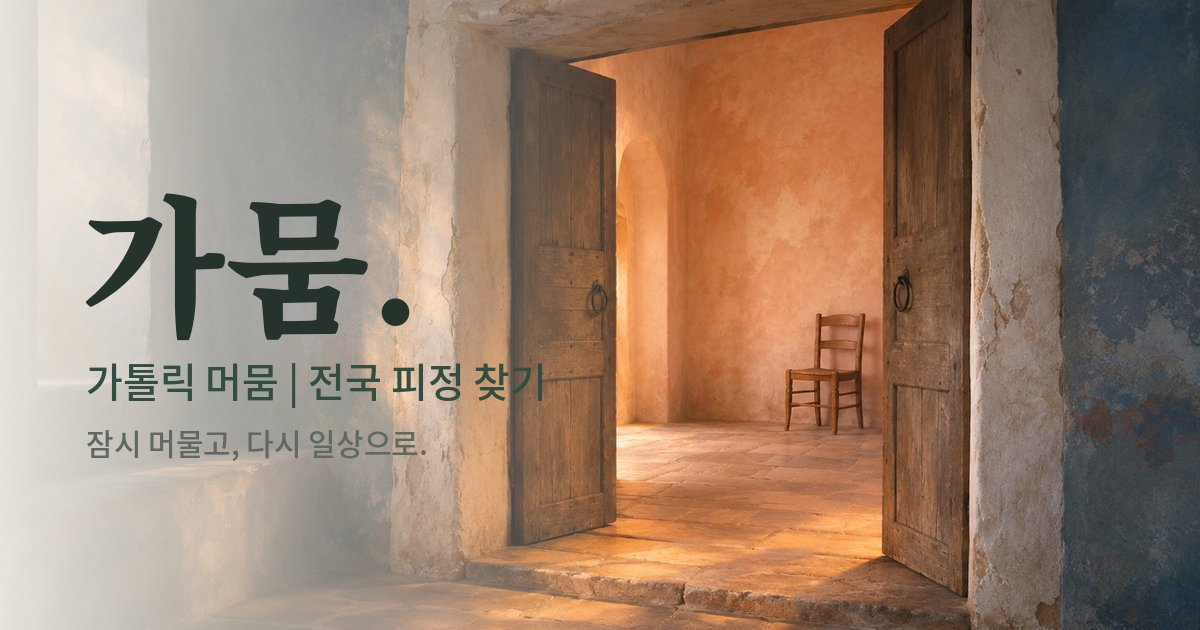
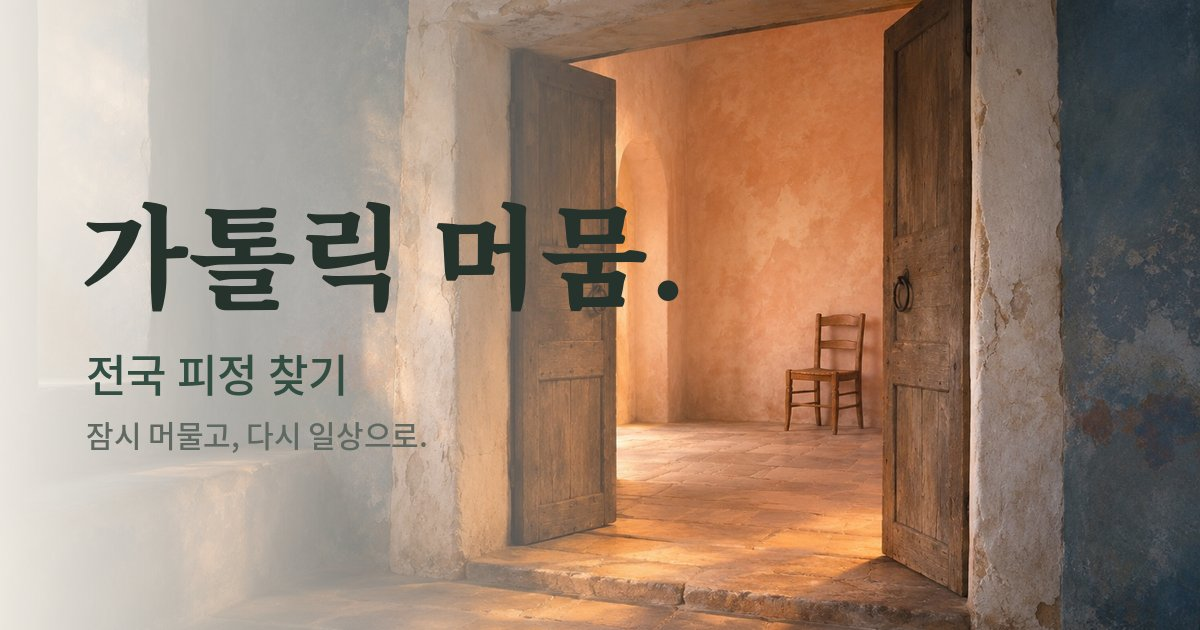
공식 이름을 '가톨릭 머뭄'으로: 머리글·바닥글 로고, 화면 제목, 공유 미리보기, 소개·약관·안내 문구
Claude-Session: https://claude.ai/code/session_0163mdS4Qys99wEqv5RpC54a

Changed region(s): [[0.0617, 0.3016, 0.4625, 0.6333], [0.37, 0.3016, 0.5858, 0.5127], [0.0617, 0.6635, 0.37, 0.7238]]

diff --git a/home/app.js b/home/app.js
@@ -1,14 +1,14 @@
-import {topicGroups,matchesTopics,koreaDay,onDate,inMonth,monthDays,shiftMonth,areaOf,matchesArea,actualRows,searchItems,newSearch,newQuiz,catalogMode,topicDiagnosis} from './discovery.js?v=202611161341';
-import {selectSpace,readProgress,saveProgress,readSaved,saveShelf} from './visit.js?v=202611161341';
-import {safe,normalizeCatalog,catalogFromRows,regions,requirementsHTML,https,visibleStatus} from './domain.js?v=202611161341';
-import {profiles,spiritualGuides,saintSources} from './guides.js?v=202611161341';
+import {topicGroups,matchesTopics,koreaDay,onDate,inMonth,monthDays,shiftMonth,areaOf,matchesArea,actualRows,searchItems,newSearch,newQuiz,catalogMode,topicDiagnosis} from './discovery.js?v=202611161344';
+import {selectSpace,readProgress,saveProgress,readSaved,saveShelf} from './visit.js?v=202611161344';
+import {safe,normalizeCatalog,catalogFromRows,regions,requirementsHTML,https,visibleStatus} from './domain.js?v=202611161344';
+import {profiles,spiritualGuides,saintSources} from './guides.js?v=202611161344';
 const main=document.querySelector('#main'),status=document.querySelector('#status'),engine=window.GAMUM_RECOMMEND,questions=window.GAMUM_QUIZ;
 const memory=()=>({getItem:()=>null,setItem:()=>{}});let local,session;try{local=localStorage;}catch{local=memory();}try{session=sessionStorage;}catch{session=memory();}
-const themes=await fetch('themes.json?v=202611161341').then(r=>{if(!r.ok)throw Error('테마 자료를 읽지 못했습니다.');return r.json();});
-const artwork=await fetch('art-v2/manifest.json?v=202611161341').then(r=>r.json());
-const editorial=await fetch('editorial.json?v=202611161341').then(r=>r.json());
-const geo=await fetch('regions.json?v=202611161341').then(r=>r.json());const areas=geo.regions;
-const compositions=await fetch('compositions.json?v=202611161341').then(r=>r.json());
+const themes=await fetch('themes.json?v=202611161344').then(r=>{if(!r.ok)throw Error('테마 자료를 읽지 못했습니다.');return r.json();});
+const artwork=await fetch('art-v2/manifest.json?v=202611161344').then(r=>r.json());
+const editorial=await fetch('editorial.json?v=202611161344').then(r=>r.json());
+const geo=await fetch('regions.json?v=202611161344').then(r=>r.json());const areas=geo.regions;
+const compositions=await fetch('compositions.json?v=202611161344').then(r=>r.json());
 const art=t=>artwork.find(a=>a.id===t.id);
 const chosenSpace=selectSpace(local,session,new URLSearchParams(location.search).get('space'));
 const theme=themes.find(t=>t.id===chosenSpace)||themes[0];
@@ -35,7 +35,7 @@ if('scrollRestoration'in history)history.scrollRestoration='manual';
 function notify(text){status.textContent=text;clearTimeout(notify.timer);notify.timer=setTimeout(()=>status.textContent='',4500);}
 function photo(t,priority=false,companion=false){const a=art(companion?{id:composition.minuteImage}:t);return `<picture><source media="(max-width:700px)" srcset="${a.mobile}"><img src="${a.desktop}" alt="${safe(a.alt)}" width="1440" height="960" ${priority?'fetchpriority="high"':'loading="lazy"'} decoding="async"></picture>`;}
 function thumbnail(t){const a=art(t);return `<img src="${a.thumbnail}" alt="${safe(a.alt)}" width="400" height="267" style="object-position:${a.desktopPosition}" loading="lazy" decoding="async">`;}
-function heading(title,desc,kicker='가톨릭 머뭄'){return `<a class="back-link" href="#home">← 가뭄으로 돌아가기</a><section class="page-heading"><span class="tiny">${kicker}</span><h1>${title}</h1><p>${desc}</p></section>`;}
+function heading(title,desc,kicker='가톨릭 머뭄'){return `<a class="back-link" href="#home">← 처음으로 돌아가기</a><section class="page-heading"><span class="tiny">${kicker}</span><h1>${title}</h1><p>${desc}</p></section>`;}
 function dataNotice(){return mode==='demo'?'<p class="demo-notice">현재는 예시 피정으로 탐색 기능을 체험할 수 있습니다. 실제 신청은 불가능합니다.</p>':'';}
 function noRows(filtered=false){return `<div class="empty"><h3>${catalogState==='error'?'공식 자료를 확인하지 못했습니다.':catalogState==='loading'?'피정 자료를 확인하고 있습니다.':mode==='demo'?'선택한 조건에 맞는 예시 피정이 없습니다.':filtered&&rows.length?'선택한 조건에 맞는 실제 피정이 없습니다.':'현재 신청할 수 있는 실제 피정이 없습니다.'}</h3><p>${catalogState==='error'?'확인되지 않은 자료를 대신 표시하지 않습니다. 다시 연결해 주세요.':'선택한 태그나 상세 조건을 줄여 보세요. 필수 참가 자격은 자동으로 완화하지 않습니다.'}</p>${catalogState==='error'?'<button class="text-button" data-reload>연결 다시 확인</button>':''}</div>`;}
 function card({p,s}){return `<article class="retreat-summary"><a class="retreat-summary-link" href="#retreat/${s.demo?'demo':'approved'}/${encodeURIComponent(s.id)}"><h3>${safe(p.title)}</h3><p>${safe(s.place||p.organization||'장소 확인 필요')}<span> · ${safe(s.region||'지역 확인 필요')}</span></p>${s.demo?'<span class="demo-badge">시연 · 신청 불가</span>':`<span class="summary-date">${date(s.start)} · ${safe(visibleStatus(s))}</span>`}<span class="summary-arrow" aria-hidden="true">→</span></a></article>`;}
@@ -53,12 +53,12 @@ function search(page){activeSearch=page;const f=searchStates[page];f.monthOnly=p
 function searchResults(){const f=searchStates[activeSearch];const items=searchItems(allItems(),f,areas,engine);return `<p class="result-count" role="status">${f.day?safe(f.day)+' · ':''}${items.length}개의 ${mode==='demo'?'가상 시연':'실제'} 회차${activeSearch==='places'?' · '+new Set(items.map(x=>x.s.place)).size+'개 장소':''}</p>${items.length?`<div class="retreat-grid">${items.map(card).join('')}</div>`:noRows(true)}${!items.length?`<p class="topic-diagnosis">${safe(topicDiagnosis(allItems(),f,areas,engine))}</p>`:''}${!items.length&&(f.tags.length||f.regionId||f.day||Object.values(f.conditions).some(Boolean))?'<p class="condition-help">위의 선택 표시에서 ×를 누르거나 전체 초기화로 조건을 줄일 수 있습니다. 필수 참가 자격은 자동으로 완화하지 않습니다.</p>':''}`;}
 function quiz(){if(step>=10)return result();const q=questions[step];return `<section class="quiz-shell"><a class="back-link" href="#home">← 네 가지 길로</a><div class="quiz-top"><span>나를 찾아가는 길</span><span>${num(step+1)} / 10</span></div><div class="quiz-progress" role="progressbar" aria-label="질문 진행" aria-valuenow="${step+1}" aria-valuemin="0" aria-valuemax="10"><span style="width:${(step+1)*10}%"></span></div><h1 id="question-title" tabindex="-1">${safe(q.q)}</h1><div class="quiz-options">${q.opts.map((o,i)=>`<button class="quiz-option" data-answer="${i}" aria-pressed="${answers[step]===i}"><span aria-hidden="true">${num(i+1)}</span>${safe(o.text)}</button>`).join('')}</div><div class="quiz-bottom"><button class="text-button" data-back ${step===0?'disabled':''}>← 이전</button><button class="text-button" data-skip>건너뛰기 →</button></div><p class="quiz-note">정답도, 판정도 없습니다. 답변은 저장하지 않습니다.</p></section>`;}
 function conditionsForm(){const c=conditions;return `<details class="conditions"><summary>참가 조건 조정</summary><p class="muted">선호와 참가 자격은 다릅니다. 확인된 조건에 맞는 피정만 추천합니다.</p><form id="conditions-form"><div class="condition-grid">${select('region','지역',regions,c.region)}${field('dateFrom','시작일','date',c.dateFrom)}${field('dateTo','종료일','date',c.dateTo)}${field('budget','1인 전체 예산','number',c.budget,'min="0"')}${field('age','내 나이','number',c.age,'min="0" max="120"')}${select('company','동행',Object.entries(engine.companyLabels),c.company)}${select('duration','기간',Object.entries(engine.durationLabels),c.duration)}${select('mode','진행 방식',[['daytime','당일'],['residential','숙박'],['commuter','통원'],['online','온라인'],['no-night','숙박 불가']],c.mode)}${select('experience','피정 경험',[['first','처음'],['experienced','경험 있음']],c.experience)}${select('gender','참가 성별',[['female','여성'],['male','남성']],c.gender)}${select('role','대상 자격',[['lay','평신도'],['religious','수도자'],['clergy','성직자'],['any','별도 자격 없음']],c.role)}${select('faith','신앙 단계',[['catholic','가톨릭 신자'],['catechumen','예비신자'],['other','그 외']],c.faith)}${field('partySize','동행 인원','number',c.partySize,'min="1"')}${field('youngestAge','동행 최저 나이','number',c.youngestAge,'min="0"')}${field('oldestAge','동행 최고 나이','number',c.oldestAge,'min="0" max="120"')}${field('childAge','미성년 자녀 나이','number',c.childAge,'min="0" max="17"')}${select('married','혼인 여부',[['yes','혼인함'],['no','해당 없음']],c.married)}${select('vocation','성소 관심',[['yes','해당'],['no','해당 없음']],c.vocation)}${field('courses','이수한 과정 (쉼표 구분)','text',c.courses?.join(', '))}</div><div class="checks">${[['durationRequired','기간 필수'],['companyRequired','동행 필수'],['minors','미성년 자녀 동행']].map(([k,t])=>`<label><input type="checkbox" name="${k}" ${c[k]?'checked':''}>${t}</label>`).join('')}</div><button class="primary">추천 다시 확인 ${arrow}</button></form></details>`;}
-function result(){const d=engine.recommend({questions,answers,conditions,...dataset()}),p=profiles[d.top]||profiles['쉼'],g=spiritualGuides[d.top]||spiritualGuides['쉼'];for(const item of d.items)recommendationReasons.set(item.s.id,item.reason);return `<a class="back-link" href="#home">← 가뭄으로</a><section class="result-intro"><span class="tiny">YOUR MOMENT OF STILLNESS</span><h1>${safe(p[0])}</h1><p>${safe(p[1])}</p><p class="recommendation-direction">답변에서 만난 방향 · ${safe(d.likes.join(' · ')||'열린 마음으로 머물기')}</p><button class="text-button" data-restart>처음부터 다시 시작하기</button></section><section><div class="section-heading"><h2>지금 나에게 맞는 머뭄 ${d.items.length}개</h2></div>${dataNotice()}${d.items.length?`<div class="retreat-grid">${d.items.map(card).join('')}</div>`:noRows(true)}${!d.items.length&&rows.length?`<p class="notice">${safe([...new Set([...d.unconfirmed,...d.excluded].flatMap(x=>x.fit.reasons))].join(' · '))}</p>`:''}<p class="result-count">참가 조건 확인 필요 ${d.unconfirmed.length}개 · 조건 불일치 또는 모집 종료 ${d.excluded.length}개</p></section>${conditionsForm()}<section class="spiritual"><span class="tiny">A LITTLE RETREAT FOR YOU</span><h2>${safe(g.opening)}</h2><p>${safe(g.comfort)}</p><h2>함께 읽을 말씀</h2><blockquote>${safe(g.verse)}</blockquote><a href="${g.url}" target="_blank" rel="noopener noreferrer">(${safe(g.reference)})</a><h2>영적 길동무 · ${safe(g.saint)}</h2><p>${safe(g.saintStory)}</p><a href="${saintSources[d.top]||saintSources['쉼']}" target="_blank" rel="noopener noreferrer">성인 이야기 출처 ${arrow}</a><h2>내 삶에 건네는 질문</h2><p>${safe(g.question)}</p><h2>짧은 기도</h2><p>${safe(g.prayer)}</p><p class="notice">이 결과는 지금의 선호를 돌아보는 안내이며 성격이나 신앙을 판정하지 않습니다.</p><button class="text-button" data-restart>10문항 다시 시작하기 ${arrow}</button></section>`;}
-function detail(id,kind){const data=kind==='demo'?demo:kind==='approved'?catalogFromRows(rows):dataset();const x=data.sessions.map(s=>({s,p:data.programs.find(p=>p.id===s.programId)})).find(x=>x.p&&x.s.id===id);if(!x)return heading('지금은 공개되지 않은 머뭄입니다.','모집 상태가 바뀌었거나 자료가 공개 중지되었을 수 있습니다.');const {p,s}=x;return `<a class="back-link" href="${safe(detailReturn)}" data-return-list>← 목록으로 돌아가기</a>${heading(safe(p.title),safe(p.organization||s.organization))}${s.demo?'<p class="notice">가상 시연 데이터입니다. 기관·일정·참가 조건은 모두 예시이며 실제 신청할 수 없습니다.</p>':''}<div class="detail"><div><section><h2>이 머뭄에 대하여</h2><p>${safe(p.description||p.legacy?.description||s.description)}</p><p>${safe(p.legacy?.recommendation?.demoPlan||'프로그램의 자세한 일정과 준비물은 주최 기관의 공식 공고를 확인해 주세요.')}</p></section><section><h2>참가 조건</h2><p>${safe(p.audience)}</p>${requirementsHTML(p.requirements)}</section><section><h2>후기와 현장 안내</h2><p>실제 참가자의 확인된 후기만 공개합니다. 가상 후기는 만들지 않습니다.</p>${s.demo?`<a class="section-link" href="../legacy.html#qr/${safe(p.id)}">기존 QR·후기 시연 확인 ${arrow}</a>`:''}</section></div><aside>${detailFacts({...x,reason:recommendationReasons.get(s.id)||''})}${!s.demo&&https(s.applicationUrl)?`<a class="button" href="${safe(https(s.applicationUrl))}" target="_blank" rel="noopener noreferrer">공식 신청처로 ${arrow}</a>`:s.demo?'<p>가상 회차 · 실제 신청 불가</p>':`<p>연락처: ${safe(s.phone||'공식 안내 확인 필요')}</p>`}<p class="muted">신청·입금·환불은 주최 기관에서 진행합니다. 가뭄에서 예약이 확정되지 않습니다.</p></aside></div>`;}
+function result(){const d=engine.recommend({questions,answers,conditions,...dataset()}),p=profiles[d.top]||profiles['쉼'],g=spiritualGuides[d.top]||spiritualGuides['쉼'];for(const item of d.items)recommendationReasons.set(item.s.id,item.reason);return `<a class="back-link" href="#home">← 처음으로</a><section class="result-intro"><span class="tiny">YOUR MOMENT OF STILLNESS</span><h1>${safe(p[0])}</h1><p>${safe(p[1])}</p><p class="recommendation-direction">답변에서 만난 방향 · ${safe(d.likes.join(' · ')||'열린 마음으로 머물기')}</p><button class="text-button" data-restart>처음부터 다시 시작하기</button></section><section><div class="section-heading"><h2>지금 나에게 맞는 머뭄 ${d.items.length}개</h2></div>${dataNotice()}${d.items.length?`<div class="retreat-grid">${d.items.map(card).join('')}</div>`:noRows(true)}${!d.items.length&&rows.length?`<p class="notice">${safe([...new Set([...d.unconfirmed,...d.excluded].flatMap(x=>x.fit.reasons))].join(' · '))}</p>`:''}<p class="result-count">참가 조건 확인 필요 ${d.unconfirmed.length}개 · 조건 불일치 또는 모집 종료 ${d.excluded.length}개</p></section>${conditionsForm()}<section class="spiritual"><span class="tiny">A LITTLE RETREAT FOR YOU</span><h2>${safe(g.opening)}</h2><p>${safe(g.comfort)}</p><h2>함께 읽을 말씀</h2><blockquote>${safe(g.verse)}</blockquote><a href="${g.url}" target="_blank" rel="noopener noreferrer">(${safe(g.reference)})</a><h2>영적 길동무 · ${safe(g.saint)}</h2><p>${safe(g.saintStory)}</p><a href="${saintSources[d.top]||saintSources['쉼']}" target="_blank" rel="noopener noreferrer">성인 이야기 출처 ${arrow}</a><h2>내 삶에 건네는 질문</h2><p>${safe(g.question)}</p><h2>짧은 기도</h2><p>${safe(g.prayer)}</p><p class="notice">이 결과는 지금의 선호를 돌아보는 안내이며 성격이나 신앙을 판정하지 않습니다.</p><button class="text-button" data-restart>10문항 다시 시작하기 ${arrow}</button></section>`;}
+function detail(id,kind){const data=kind==='demo'?demo:kind==='approved'?catalogFromRows(rows):dataset();const x=data.sessions.map(s=>({s,p:data.programs.find(p=>p.id===s.programId)})).find(x=>x.p&&x.s.id===id);if(!x)return heading('지금은 공개되지 않은 머뭄입니다.','모집 상태가 바뀌었거나 자료가 공개 중지되었을 수 있습니다.');const {p,s}=x;return `<a class="back-link" href="${safe(detailReturn)}" data-return-list>← 목록으로 돌아가기</a>${heading(safe(p.title),safe(p.organization||s.organization))}${s.demo?'<p class="notice">가상 시연 데이터입니다. 기관·일정·참가 조건은 모두 예시이며 실제 신청할 수 없습니다.</p>':''}<div class="detail"><div><section><h2>이 머뭄에 대하여</h2><p>${safe(p.description||p.legacy?.description||s.description)}</p><p>${safe(p.legacy?.recommendation?.demoPlan||'프로그램의 자세한 일정과 준비물은 주최 기관의 공식 공고를 확인해 주세요.')}</p></section><section><h2>참가 조건</h2><p>${safe(p.audience)}</p>${requirementsHTML(p.requirements)}</section><section><h2>후기와 현장 안내</h2><p>실제 참가자의 확인된 후기만 공개합니다. 가상 후기는 만들지 않습니다.</p>${s.demo?`<a class="section-link" href="../legacy.html#qr/${safe(p.id)}">기존 QR·후기 시연 확인 ${arrow}</a>`:''}</section></div><aside>${detailFacts({...x,reason:recommendationReasons.get(s.id)||''})}${!s.demo&&https(s.applicationUrl)?`<a class="button" href="${safe(https(s.applicationUrl))}" target="_blank" rel="noopener noreferrer">공식 신청처로 ${arrow}</a>`:s.demo?'<p>가상 회차 · 실제 신청 불가</p>':`<p>연락처: ${safe(s.phone||'공식 안내 확인 필요')}</p>`}<p class="muted">신청·입금·환불은 주최 기관에서 진행합니다. 가톨릭 머뭄에서 예약이 확정되지 않습니다.</p></aside></div>`;}
 function shelf(){const actual=catalogFromRows(rows);const items=[...actual.sessions.map(s=>({s,p:actual.programs.find(p=>p.id===s.programId)})),...demo.sessions.map(s=>({s,p:demo.programs.find(p=>p.id===s.programId)}))].filter(({p,s})=>p&&saved.programs.includes(key(p.id,s.demo?'demo':'approved')));return `${heading('다시 꺼내 보는 마음.','이 브라우저에 담아 둔 머뭄과 공간입니다. 다른 기기로 자동 동기화되지 않습니다.','MY DRAWER')}<section><h2>내가 머문 공간</h2>${themes.filter(t=>saved.spaces.includes(t.id)).map(t=>`<article class="shelf-space"><a href="?space=${t.id}#minute">${thumbnail(t)}</a><div><span class="tiny">${t.number} · ${safe(t.name)}</span><h2><a href="?space=${t.id}#minute">${safe(t.title)}</a></h2></div><button class="text-button" data-remove-space="${t.id}">서랍에서 빼기</button></article>`).join('')||'<p class="notice">오늘의 1분 머뭄에서 마음에 닿은 공간을 담아 보세요.</p>'}</section><section class="retreat-section"><h2>저장한 피정</h2>${dataNotice()}${items.length?`<div class="retreat-grid">${items.map(card).join('')}</div>`:'<p class="notice">저장한 공개 피정이 없습니다. 공개 중지된 피정은 표시하지 않습니다.</p>'}</section><a class="section-link" href="../legacy.html#shelf">기존 v0.2의 말씀·결과 서랍 열기 ${arrow}</a>`;}
 function guide(){return `${heading('처음 머무는 당신께.','준비가 완벽하지 않아도 괜찮습니다. 궁금한 것부터 하나씩 살펴보세요.')}<div class="guide">${[['피정은 어떤 시간인가요?','일상에서 잠시 물러나 기도와 쉼, 성찰에 머무는 시간입니다. 침묵 중심, 말씀을 배우는 시간, 함께 나누는 시간 등 프로그램마다 다릅니다.'],['신자가 아니어도 참여할 수 있나요?','기관마다 참가 대상이 다릅니다. 신앙 단계·나이·동행·선행 과정 등 공식 참가 조건을 확인해 주세요. 확인되지 않은 자격을 추정해 추천하지 않습니다.'],['어디에서 신청하고 결제하나요?','승인된 피정 상세 화면의 공식 신청처로 이동합니다. 신청·입금·환불 규정은 주최 기관의 안내를 따릅니다. 가상 시연에는 실제 신청 기능이 없습니다.'],['20개의 공간은 어떻게 바뀌나요?','접속하거나 새로고침하면 새로운 공간을 만납니다. 20개 공간을 골고루 경험한 뒤 다시 섞습니다. 메뉴를 오갈 때는 같은 공간이 이어지며, 저장한 공간을 다시 열면 이 탭에서 읽던 묵상 단계가 이어집니다. 저장소 사용을 차단한 환경에서는 새로고침 후 상태 유지가 제한됩니다.'],['내 답변과 기록은 어디에 남나요?','10문항 답변은 서버나 브라우저 저장소에 저장하지 않습니다. 서랍은 이 기기의 브라우저에, 묵상 진행은 현재 탭에 저장됩니다. 브라우저 데이터를 지우면 기록이 사라집니다.'],['사진 속 장소에 갈 수 있나요?','20개 비주얼은 빛과 공간을 표현하기 위해 AI로 제작한 가상의 건축 이미지입니다. 실제 성당이나 피정 시설 사진이 아니며, 실제 장소로 안내하지 않습니다.']].map(([q,a])=>`<details><summary>${q}</summary><p>${a}</p></details>`).join('')}<p class="notice">현재 실제 신청과 수도회 운영 서비스는 준비 중입니다. 등록 시연은 서버에 전송되지 않습니다. 성경 말씀의 장절을 누르면 CBCK 원문을 읽을 수 있습니다.</p><div class="chips"><a class="button secondary" href="../legacy.html#convent-register">수도회 등록 시연</a><a class="button secondary" href="../legacy.html">기존 전체 기능</a></div></div>`;}
 function searchPage(q){const all=q.trim().toLowerCase().split(/\s+/).filter(Boolean),words=all.map(w=>w.replace(/(피정|머뭄)$/,'')).filter(w=>w&&!['가톨릭','천주교','찾기'].includes(w));const items=all.length?allItems().filter(({p,s})=>{const hay=[p.title,p.organization,s.organization,s.region,s.place,p.description,p.audience,(p.tags||[]).join(' ')].join(' ').toLowerCase();return words.every(w=>hay.includes(w));}):[];const anyQ=all.length;return heading('피정 검색','피정 이름, 수도회, 지역, 주제로 찾을 수 있습니다.')+`<form class="cm-search-page" data-cm-search role="search"><label for="cm-q-page">검색어</label><div class="cm-pill cm-pill-page"><svg viewBox="0 0 28 28" aria-hidden="true"><circle cx="12" cy="12" r="8"/><path d="m18 18 7 7"/></svg><input id="cm-q-page" type="search" name="q" value="${safe(q)}" placeholder="예: 침묵, 수원, 부부, 청년" autocomplete="off" enterkeyhint="search"><button type="submit">검색</button></div></form>`+dataNotice()+(anyQ?`<p class="result-count" role="status">‘${safe(q)}’ 검색 결과 ${items.length}개</p>${items.length?`<div class="retreat-grid">${items.map(card).join('')}</div>`:noRows(true)}`:`<p class="cm-search-hint">찾고 싶은 말을 넣고 검색을 눌러 주세요. 주제·날짜·지역으로 고르고 싶으시면 <a href="#paths">피정을 찾는 네 가지 길</a>을 이용하세요.</p>`);}
-function render({focus=false}={}){const [page='home',id,sessionId]=location.hash.slice(1).split('/');if(page==='quiz-result'&&!quizCompleted){history.replaceState(null,'','#discover');return render({focus});}document.body.classList.toggle('in-quiz',page==='discover'&&step<10);main.innerHTML=['home','paths',''].includes(page)?home():page==='minute'?heading('오늘, 1분 머뭄',theme.name+'의 공간에서, 당신의 속도로.')+minuteSection():['themes','calendar','places'].includes(page)?search(page):page==='discover'?quiz():page==='quiz-result'?result():page==='retreat'?detail(decodeURIComponent(sessionId||id||''),sessionId?id:undefined):page==='shelf'?shelf():page==='search'?searchPage(decodeURIComponent(id||'')):page==='guide'?guide():window.CM_PAGES&&window.CM_PAGES[page]?window.CM_PAGES[page]():heading('길을 다시 찾아볼까요?','위의 가뭄 로고를 누르면 첫 화면으로 돌아갑니다.');main.setAttribute('aria-busy','false');if(focus){main.focus({preventScroll:true});window.scrollTo(0,0);if(['paths','minute'].includes(page))document.getElementById(page)?.scrollIntoView();}}
+function render({focus=false}={}){const [page='home',id,sessionId]=location.hash.slice(1).split('/');if(page==='quiz-result'&&!quizCompleted){history.replaceState(null,'','#discover');return render({focus});}document.body.classList.toggle('in-quiz',page==='discover'&&step<10);main.innerHTML=['home','paths',''].includes(page)?home():page==='minute'?heading('오늘, 1분 머뭄',theme.name+'의 공간에서, 당신의 속도로.')+minuteSection():['themes','calendar','places'].includes(page)?search(page):page==='discover'?quiz():page==='quiz-result'?result():page==='retreat'?detail(decodeURIComponent(sessionId||id||''),sessionId?id:undefined):page==='shelf'?shelf():page==='search'?searchPage(decodeURIComponent(id||'')):page==='guide'?guide():window.CM_PAGES&&window.CM_PAGES[page]?window.CM_PAGES[page]():heading('길을 다시 찾아볼까요?','위의 가톨릭 머뭄 로고를 누르면 첫 화면으로 돌아갑니다.');main.setAttribute('aria-busy','false');if(focus){main.focus({preventScroll:true});window.scrollTo(0,0);if(['paths','minute'].includes(page))document.getElementById(page)?.scrollIntoView();}}
 // Restore explicit section links after the asynchronous theme files have rendered.
 if(['paths','minute'].includes(location.hash.slice(1)))requestAnimationFrame(()=>{const target=document.getElementById(location.hash.slice(1));if(target)window.scrollTo({top:target.offsetTop-24,behavior:'instant'});});
 main.addEventListener('click',e=>{const b=e.target.closest('button');if(!b)return;const d=b.dataset;
@@ -83,5 +83,5 @@ document.addEventListener('click',e=>{const a=e.target.closest('a');if(a?.getAtt
 document.querySelector('.skip').addEventListener('click',e=>{e.preventDefault();main.focus();});
 window.addEventListener('hashchange',e=>{const next=location.hash.slice(1).split('/')[0];if(next==='discover'&&step>=10)step=9;const mm=document.querySelector('.mobile-menu');if(mm)mm.open=false;const prevPage=new URL(e.oldURL).hash.slice(1).split('/')[0],segs=location.hash.slice(1).split('/');const keepScroll=prevPage===next&&['contents','dioceses','board'].includes(next)&&!(next==='contents'&&segs.length>=3);const position=new URL(e.oldURL).hash.startsWith('#retreat/')?viewPositions.get(location.hash):null;if(keepScroll){const y=window.scrollY;render();window.scrollTo(0,y);return;}render({focus:true});if(position)requestAnimationFrame(()=>{document.querySelector(`a[href="${position.href}"]`)?.focus({preventScroll:true});window.scrollTo({top:position.y,behavior:'instant'});});});
 // Public release: no development backend connection. Verified catalog is empty.
-async function loadCatalog(){try{const response=await fetch('catalog.json?v=202611161341');if(!response.ok)throw Error();const data=await response.json();rows=actualRows(data.rows||[]);catalogState='ready';}catch{rows=[];catalogState='error';}mode=catalogMode(rows,catalogState);const y=scrollY;render();window.scrollTo({top:y,behavior:'instant'});}
+async function loadCatalog(){try{const response=await fetch('catalog.json?v=202611161344');if(!response.ok)throw Error();const data=await response.json();rows=actualRows(data.rows||[]);catalogState='ready';}catch{rows=[];catalogState='error';}mode=catalogMode(rows,catalogState);const y=scrollY;render();window.scrollTo({top:y,behavior:'instant'});}
 render();loadCatalog();

diff --git a/home/index.html b/home/index.html
@@ -3,18 +3,18 @@
 <head>
 <meta charset="utf-8"><link rel="icon" href="icon-64.png"><link rel="apple-touch-icon" href="icon-180.png"><meta name="viewport" content="width=device-width,initial-scale=1">
 <meta name="theme-color" content="#f7f3eb"><meta name="description" content="전국의 가톨릭 피정과 수도회를 한곳에서 찾습니다. 나에게 맞는 피정과 오늘의 작은 묵상을 만납니다.">
-<meta name="referrer" content="no-referrer"><title>가뭄. 가톨릭 머뭄 · 전국 피정 찾기</title><meta property="og:type" content="website"><meta property="og:site_name" content="가뭄. 가톨릭 머뭄"><meta property="og:title" content="가뭄. 가톨릭 머뭄 · 전국 피정 찾기"><meta property="og:description" content="전국의 가톨릭 피정과 수도회를 한곳에서 찾습니다. 잠시 머물고, 다시 일상으로."><meta property="og:image" content="https://coend01-web.github.io/gamum/home/og.jpg"><meta property="og:image:width" content="1200"><meta property="og:image:height" content="630"><meta name="twitter:card" content="summary_large_image"><meta property="og:url" content="https://coend01-web.github.io/gamum/home/index.html">
+<meta name="referrer" content="no-referrer"><title>가톨릭 머뭄 · 전국 피정 찾기</title><meta property="og:type" content="website"><meta property="og:site_name" content="가톨릭 머뭄"><meta property="og:title" content="가톨릭 머뭄 · 전국 피정 찾기"><meta property="og:description" content="전국의 가톨릭 피정과 수도회를 한곳에서 찾습니다. 잠시 머물고, 다시 일상으로."><meta property="og:image" content="https://coend01-web.github.io/gamum/home/og.jpg"><meta property="og:image:width" content="1200"><meta property="og:image:height" content="630"><meta name="twitter:card" content="summary_large_image"><meta property="og:url" content="https://coend01-web.github.io/gamum/home/index.html">
 <link rel="preload" href="fonts/serif.woff2" as="font" type="font/woff2" crossorigin>
-<link rel="stylesheet" href="../assets/fonts/pretendard-subset.css?v=202611161341">
-<link rel="stylesheet" href="spaces.css?v=202611161341"><link rel="stylesheet" href="final.css?v=202611161341"><link rel="stylesheet" href="discovery.css?v=202611161341"><link rel="stylesheet" href="cm-preview.css?v=202611161341">
+<link rel="stylesheet" href="../assets/fonts/pretendard-subset.css?v=202611161344">
+<link rel="stylesheet" href="spaces.css?v=202611161344"><link rel="stylesheet" href="final.css?v=202611161344"><link rel="stylesheet" href="discovery.css?v=202611161344"><link rel="stylesheet" href="cm-preview.css?v=202611161344">
 </head>
 <body>
 <a class="skip" href="#main">본문으로 바로가기</a>
-<header class="site-header cm-header"><a class="brand cm-brand" href="#home" aria-label="가뭄. 가톨릭 머뭄 홈"><span class="logo">가뭄.</span><span class="cm-sub"><span class="cm-en">CAMUM</span><span class="cm-ko">가톨릭 머뭄<i aria-hidden="true">|</i>전국 피정 찾기</span></span></a>
+<header class="site-header cm-header"><a class="brand cm-brand" href="#home" aria-label="가톨릭 머뭄 홈"><span class="logo">가톨릭 머뭄.</span><span class="cm-sub"><span class="cm-en">CAMUM</span><span class="cm-ko">전국 피정 찾기</span></span></a>
 <div class="cm-tools"><button type="button" class="cm-tool" data-cm-search-toggle aria-expanded="false" aria-controls="cm-searchbar" aria-label="피정 검색"><svg viewBox="0 0 28 28" aria-hidden="true"><circle cx="12" cy="12" r="8"/><path d="m18 18 7 7"/></svg></button><a class="cm-tool" href="#login" aria-label="로그인"><svg viewBox="0 0 28 28" aria-hidden="true"><circle cx="14" cy="9.5" r="5"/><path d="M4.5 25c1.2-5.2 4.8-8 9.5-8s8.3 2.8 9.5 8"/></svg></a><a class="cm-tool cm-basket" href="#shelf" aria-label="피정 담기"><svg viewBox="0 0 28 28" aria-hidden="true"><path d="M5 9h18l-1.6 15H6.6z"/><path d="M10 9V7.5a4 4 0 0 1 8 0V9"/></svg><span class="cm-basket-label">피정담기</span></a></div></header>
 <nav class="cm-menubar" aria-label="주요 메뉴"><div class="cm-menu-scroll"><a href="#home" data-cm="home">홈</a><a href="#paths" data-cm="paths">피정</a><a href="#contents" data-cm="contents">콘텐츠</a><a href="#board" data-cm="board">게시판</a><a href="#dioceses" data-cm="dioceses">교구</a><a href="#convents" data-cm="convents">수도회 소개</a><a href="#guide" data-cm="guide">이용 안내</a></div></nav><div id="cm-searchbar" class="cm-searchbar" hidden><form class="cm-pill" data-cm-search role="search"><label for="cm-q" class="cm-sr">피정 검색</label><svg viewBox="0 0 28 28" aria-hidden="true"><circle cx="12" cy="12" r="8"/><path d="m18 18 7 7"/></svg><input id="cm-q" type="search" name="q" placeholder="피정 이름, 수도회, 지역 검색" autocomplete="off" enterkeyhint="search"><button type="submit">검색</button></form></div>
 <main id="main" tabindex="-1" aria-busy="true"><div class="loading"><p>빛이 머무는 자리를<br>준비하고 있습니다.</p></div></main>
 <div class="cm-float" aria-label="바로가기"><a href="#home" aria-label="처음으로"><svg viewBox="0 0 28 28" aria-hidden="true"><path d="M14 2.5v5M11.5 5h5"/><path d="M5 25V14l9-6.5 9 6.5v11z"/><path d="M11.5 25v-6a2.5 2.5 0 0 1 5 0v6"/></svg></a><a href="#convents" class="cm-insta" aria-label="수도회 소개와 인스타그램"><svg viewBox="0 0 28 28" aria-hidden="true"><rect x="4" y="4" width="20" height="20" rx="6"/><circle cx="14" cy="14" r="4.6"/><circle cx="19.6" cy="8.4" r="1.1" class="dot"/></svg></a></div><div id="status" role="status" aria-live="polite"></div>
-<footer class="site-footer"><a class="logo" href="#home">가뭄.</a><div><p>가톨릭 머뭄 · CAMUM</p><p>잠시 머물고, 다시 일상으로.</p></div><nav aria-label="하단 메뉴"><a href="#about">가뭄 소개</a><a href="#guide">이용 안내</a><a href="#terms">이용약관</a><a href="#privacy"><b>개인정보 처리방침</b></a></nav><p class="footer-note">CAMUM · 가톨릭 머뭄<br>피정 신청은 각 주최 기관의 공식 안내를 따릅니다.</p></footer>
-<script src="../assets/js/data.js?v=202611161341"></script><script src="../assets/js/demo-catalog.js?v=202611161341"></script><script src="../assets/js/quiz-data.js?v=202611161341"></script><script src="../assets/js/recommendation.js?v=202611161341"></script><script src="cm-convents.js?v=202611161341"></script><script src="cm-pages.js?v=202611161341"></script><script src="cm-auth.js?v=202611161341"></script><script src="cm-contents.js?v=202611161341"></script><script type="module" src="app.js?v=202611161341"></script>
+<footer class="site-footer"><a class="logo" href="#home">가톨릭 머뭄.</a><div><p>CAMUM · 전국 피정 찾기</p><p>잠시 머물고, 다시 일상으로.</p></div><nav aria-label="하단 메뉴"><a href="#about">가톨릭 머뭄 소개</a><a href="#guide">이용 안내</a><a href="#terms">이용약관</a><a href="#privacy"><b>개인정보 처리방침</b></a></nav><p class="footer-note">가톨릭 머뭄 (CAMUM)<br>피정 신청은 각 주최 기관의 공식 안내를 따릅니다.</p></footer>
+<script src="../assets/js/data.js?v=202611161344"></script><script src="../assets/js/demo-catalog.js?v=202611161344"></script><script src="../assets/js/quiz-data.js?v=202611161344"></script><script src="../assets/js/recommendation.js?v=202611161344"></script><script src="cm-convents.js?v=202611161344"></script><script src="cm-pages.js?v=202611161344"></script><script src="cm-auth.js?v=202611161344"></script><script src="cm-contents.js?v=202611161344"></script><script type="module" src="app.js?v=202611161344"></script>
 </body></html>

diff --git a/home/cm-auth.js b/home/cm-auth.js
@@ -18,7 +18,7 @@
     return t.toDateString() === n.toDateString() ? p(t.getHours()) + ':' + p(t.getMinutes()) : (t.getFullYear() !== n.getFullYear() ? t.getFullYear() + '.' : '') + p(t.getMonth() + 1) + '.' + p(t.getDate());
   }
   function para(s) { return safe(s).split(/\n{2,}/).map(function (b) { return '<p>' + b.replace(/\n/g, '<br>') + '</p>'; }).join(''); }
-  function back(h, t) { return '<a class="back-link" href="' + (h || '#home') + '">← ' + (t || '가뭄으로 돌아가기') + '</a>'; }
+  function back(h, t) { return '<a class="back-link" href="' + (h || '#home') + '">← ' + (t || '처음으로 돌아가기') + '</a>'; }
   function head(t, s) { return '<section class="cm-page-head"><h1>' + t + '</h1>' + (s ? '<p>' + s + '</p>' : '') + '</section>'; }
   function slot(id) { return '<div id="' + id + '" class="cm-async" aria-live="polite"><p class="cm-loading">불러오는 중…</p></div>'; }
   function fill(id, html) { var el = document.getElementById(id); if (el) el.innerHTML = html; }
@@ -274,7 +274,7 @@
 
   function privacyPage() {
     return back() + head('개인정보 처리방침', '') + '<div class="cm-reader cm-policy">' +
-      '<h2>1. 받는 정보</h2><p>가뭄(가톨릭 머뭄)은 회원가입 때 아이디, 비밀번호, 닉네임만 받습니다. 이름·전화번호·이메일·생년월일은 받지 않습니다. 비밀번호와 복구 코드는 되돌릴 수 없는 방식으로 바꾸어 저장하므로 운영자도 알 수 없습니다.</p>' +
+      '<h2>1. 받는 정보</h2><p>가톨릭 머뭄은 회원가입 때 아이디, 비밀번호, 닉네임만 받습니다. 이름·전화번호·이메일·생년월일은 받지 않습니다. 비밀번호와 복구 코드는 되돌릴 수 없는 방식으로 바꾸어 저장하므로 운영자도 알 수 없습니다.</p>' +
       '<h2>2. 쓰는 곳</h2><p>로그인 유지, 피정담기 목록을 여러 기기에서 함께 보기, 게시판 글과 댓글의 작성자 표시에만 씁니다. 광고나 제3자 제공에 쓰지 않습니다.</p>' +
       '<h2>3. 비회원 글</h2><p>비회원으로 글이나 댓글을 쓰면 닉네임과 글 비밀번호(바꾸어 저장)만 남습니다. 도배와 광고를 막기 위해 접속 주소를 하루 동안만 임시로 확인하고 지웁니다.</p>' +
       '<h2>4. 보관과 삭제</h2><p>회원 정보는 탈퇴할 때까지 보관하며, 내 정보 화면에서 탈퇴하면 계정과 담아 둔 피정이 바로 지워집니다. 쓴 글은 게시판 흐름을 위해 남고 닉네임만 표시됩니다. 글은 언제든 직접 지울 수 있습니다.</p>' +
@@ -284,7 +284,7 @@
   }
   function termsPage() {
     return back() + head('이용약관', '') + '<div class="cm-reader cm-policy">' +
-      '<h2>1. 서비스</h2><p>가뭄은 전국 가톨릭 피정 정보를 모아 소개하고, 각 수도회·피정의 집의 공식 신청처로 연결합니다. 피정 신청과 비용 납부는 각 주최 기관에서 이루어집니다.</p>' +
+      '<h2>1. 서비스</h2><p>가톨릭 머뭄은 전국 가톨릭 피정 정보를 모아 소개하고, 각 수도회·피정의 집의 공식 신청처로 연결합니다. 피정 신청과 비용 납부는 각 주최 기관에서 이루어집니다.</p>' +
       '<h2>2. 게시판</h2><p>서로를 존중하는 글을 부탁드립니다. 다른 사람을 비방하는 글, 광고, 개인정보를 드러내는 글, 교회 가르침을 왜곡하거나 조롱하는 글은 알리지 않고 지울 수 있습니다.</p>' +
       '<h2>3. 계정</h2><p>아이디와 비밀번호, 복구 코드는 본인이 관리합니다. 복구 코드를 잃어버리면 비밀번호를 찾기 어려울 수 있습니다.</p>' +
       '<h2>4. 정보의 정확성</h2><p>피정 일정과 수도회 정보는 공개 자료와 각 기관의 안내를 바탕으로 하며, 바뀐 내용이 늦게 반영될 수 있습니다. 신청 전 주최 기관에 꼭 확인해 주세요.</p>' +
@@ -296,7 +296,7 @@
       '<section class="cm-about">' +
       '<p class="cm-about-kicker">가톨릭 머뭄 · CAMUM</p>' +
       '<h1>복음과 카리스마가<br>세상에 닿도록</h1>' +
-      '<p class="cm-about-lead">가뭄은 전국의 가톨릭 피정을 한곳에서 찾고, 각 수도회와 피정의 집이 정성껏 준비한 피정으로 신자들을 이어 드리는 곳입니다.</p>' +
+      '<p class="cm-about-lead">가톨릭 머뭄은 전국의 가톨릭 피정을 한곳에서 찾고, 각 수도회와 피정의 집이 정성껏 준비한 피정으로 신자들을 이어 드리는 곳입니다.</p>' +
       '<blockquote class="cm-about-quote">“요즘 기도도 잘 안 되고 마음이 너무 지칩니다. 이번 주말에 갈 수 있는 피정이 있을까요?”</blockquote>' +
       '<p>이렇게 묻는 사람에게 필요한 것은 긴 검색 결과가 아니라 하느님과 다시 만나는 시간입니다. 그런데 막상 피정 하나를 찾으려 하면 교구 주보와 본당 공지, 수도회 누리집과 따로 마련된 신청 링크를 차례로 뒤져야 하고, 날짜와 대상과 비용을 하나씩 견주다 보면 정작 내가 갈 수 있는 피정이 어디에 있는지 알기 어려워집니다.</p>' +
       '<p>우리 교회에는 말씀과 침묵, 환대와 자비, 식별과 봉사처럼 각 수도회가 오랜 세월 지켜 온 영성이 있고 그 영성을 나누려는 피정도 많습니다. 모자란 것은 피정이 아니라, 피정을 찾는 사람과 피정을 준비한 공동체가 서로 만나는 길이라고 생각했습니다.</p>' +
@@ -309,7 +309,7 @@
       '</ul>' +
       '<p>피정을 처음 찾는 사람도, 수도회를 잘 모르는 사람도 지금 서 있는 곳에서 바로 시작할 수 있도록 만들었습니다.</p>' +
       '<h2>수도회와 피정의 집께</h2>' +
-      '<p>가뭄은 수도회를 대신하는 곳이 아니라, 수도회가 간직한 보화로 들어가는 문을 조금 더 넓히려는 곳입니다. 이미 준비하신 피정을 소개해 주시면 신자들이 찾아보고 비교할 수 있도록 안내하고, 신청과 참가비, 환불은 지금처럼 각 공동체가 정한 방식으로 공식 신청처에서 이루어집니다. 새로운 사도직을 하나 더 얹어 드리려는 것이 아니라 이미 하고 계신 일이 더 많은 사람에게 닿도록 돕고 싶습니다.</p>' +
+      '<p>가톨릭 머뭄은 수도회를 대신하는 곳이 아니라, 수도회가 간직한 보화로 들어가는 문을 조금 더 넓히려는 곳입니다. 이미 준비하신 피정을 소개해 주시면 신자들이 찾아보고 비교할 수 있도록 안내하고, 신청과 참가비, 환불은 지금처럼 각 공동체가 정한 방식으로 공식 신청처에서 이루어집니다. 새로운 사도직을 하나 더 얹어 드리려는 것이 아니라 이미 하고 계신 일이 더 많은 사람에게 닿도록 돕고 싶습니다.</p>' +
       '<p>기관 등록은 무료이며, 참여 방법은 <a href="#board/%EA%B3%B5%EC%A7%80">게시판 공지</a>로 안내해 드리겠습니다.</p>' +
       '<figure class="cm-about-verse"><blockquote>“너희는 온 세상에 가서 모든 피조물에게 복음을 선포하여라.”</blockquote><figcaption>마르 16,15</figcaption></figure>' +
       '<p class="cm-about-end">수도회의 사명을 바꾸려는 것이 아니라, 복음과 창립자의 카리스마가 더 많은 삶에 닿도록 그 길을 함께 열고자 합니다.</p>' +

diff --git a/home/cm-contents.js b/home/cm-contents.js
@@ -36,7 +36,7 @@
       (list.length ? '<ul class="cm-grid">' + rows.map(function (w) {
         return '<li><a href="#contents/' + kind + '/' + w.id + '"><span class="cm-grid-cover">' + (w.cover_url ? '<img src="' + safe(w.cover_url) + '" alt="" loading="lazy">' : '<i>' + safe(w.title) + '</i>') +
           (isNew(w.last_at) ? '<b class="cm-upb">UP</b>' : '') + (w.published ? '' : '<b class="cm-hideb">비공개</b>') + '</span>' +
-          '<strong>' + safe(w.title) + '</strong><span>' + safe(w.author || '가뭄') + '</span></a></li>';
+          '<strong>' + safe(w.title) + '</strong><span>' + safe(w.author || '가톨릭 머뭄') + '</span></a></li>';
       }).join('') + '</ul>' : '<p class="cm-empty">' + (all.length ? dayTab + '요일에 연재하는 작품이 없습니다.' : '아직 올라온 ' + kname(kind) + ' 작품이 없습니다.<br>곧 첫 작품으로 찾아뵙겠습니다.') + '</p>');
   }
   var cache = {};
@@ -65,9 +65,9 @@
       rpc('cm_work', { p_id: id, p_token: token() }).then(function (w) {
         if (!w) return fill('cm-work', '<p class="cm-empty">없거나 아직 공개되지 않은 작품입니다.</p>');
         var eps = w.episodes;
-        document.title = w.title + ' | 가뭄. 가톨릭 머뭄';
+        document.title = w.title + ' | 가톨릭 머뭄';
         fill('cm-work', '<a class="back-link" href="#contents/' + w.kind + '">← ' + kname(w.kind) + ' 목록으로</a>' +
-          '<section class="cm-work-head">' + (w.cover_url ? '<img src="' + safe(w.cover_url) + '" alt="">' : '') + '<div><span class="cm-cv-kind">' + kname(w.kind) + '</span><h1>' + safe(w.title) + hidden(w.published) + '</h1><p class="cm-meta">' + safe(w.author || '가뭄') + '<i></i>' + eps.length + '편' + (w.days && w.days.length ? '<i></i><b>매주 ' + w.days.join('·') + '요일 연재</b>' : '') + '</p>' + (w.intro ? '<div class="cm-work-intro-full">' + para(w.intro) + '</div>' : '') +
+          '<section class="cm-work-head">' + (w.cover_url ? '<img src="' + safe(w.cover_url) + '" alt="">' : '') + '<div><span class="cm-cv-kind">' + kname(w.kind) + '</span><h1>' + safe(w.title) + hidden(w.published) + '</h1><p class="cm-meta">' + safe(w.author || '가톨릭 머뭄') + '<i></i>' + eps.length + '편' + (w.days && w.days.length ? '<i></i><b>매주 ' + w.days.join('·') + '요일 연재</b>' : '') + '</p>' + (w.intro ? '<div class="cm-work-intro-full">' + para(w.intro) + '</div>' : '') +
           (eps.length ? '<a class="cm-btn cm-first" href="#contents/' + w.kind + '/' + w.id + '/' + eps[0].id + '">첫 화 보기</a>' : '') + '</div></section>' +
           (w.mine ? '<div class="cm-admin-bar"><a class="cm-btn" href="#cedit/ep/' + w.id + '/new">＋ 회차 올리기</a><a class="cm-btn cm-btn-line" href="#cedit/work/' + w.id + '">작품 고치기</a></div>' : '') +
           (eps.length ? '<ul class="cm-eps">' + eps.slice().reverse().map(function (e) {
@@ -89,10 +89,10 @@
         if (v) body += '<div class="cm-yt"><iframe src="https://www.youtube-nocookie.com/embed/' + v + '" title="' + safe(e.title) + '" allow="accelerometer; encrypted-media; picture-in-picture" allowfullscreen loading="lazy"></iframe></div>';
         if (e.body) body += '<div class="cm-reader">' + para(e.body) + '</div>';
         var nav = '<nav class="cm-prevnext" aria-label="이전·다음 화">' + (e.prev ? '<a href="' + base + e.prev + '">← 이전 화</a>' : '<span></span>') + '<a href="#contents/' + e.kind + '/' + e.work_id + '">목록</a>' + (e.next ? '<a href="' + base + e.next + '">다음 화 →</a>' : '<span></span>') + '</nav>';
-        document.title = e.work_title + ' ' + (e.no ? e.no + '화' : e.title) + ' | 가뭄. 가톨릭 머뭄';
+        document.title = e.work_title + ' ' + (e.no ? e.no + '화' : e.title) + ' | 가톨릭 머뭄';
         fill('cm-ep', '<a class="back-link" href="#contents/' + e.kind + '/' + e.work_id + '">← ' + safe(e.work_title) + '</a>' +
           '<article class="cm-read cm-ep-read"><span class="cm-cv-kind">' + safe(e.work_title) + '</span><h1>' + (e.no ? e.no + '화 · ' : '') + safe(e.title) + hidden(e.published) + '</h1>' +
-          '<p class="cm-meta">' + (e.ref ? '<b>' + safe(e.ref) + '</b><i></i>' : '') + safe(e.author || '가뭄') + '<i></i>' + day(e.created_at) + '<i></i>조회 ' + e.views + '</p>' +
+          '<p class="cm-meta">' + (e.ref ? '<b>' + safe(e.ref) + '</b><i></i>' : '') + safe(e.author || '가톨릭 머뭄') + '<i></i>' + day(e.created_at) + '<i></i>조회 ' + e.views + '</p>' +
           (e.mine ? '<div class="cm-admin-bar"><a class="cm-btn cm-btn-line" href="#cedit/ep/' + e.work_id + '/' + e.id + '">이 회차 고치기</a></div>' : '') +
           body + nav + '</article>');
       }).catch(fail('cm-ep'));
@@ -154,7 +154,7 @@
       '<form class="cm-form cm-wform" data-work-form="' + id + '">' +
       '<label>종류<select name="kind">' + KINDS.map(function (k) { return '<option value="' + k[0] + '"' + (k[0] === kind ? ' selected' : '') + '>' + k[1] + '</option>'; }).join('') + '</select></label>' +
       '<label>작품 제목<input name="title" required maxlength="80"></label>' +
-      '<label>작가<input name="author" maxlength="40" placeholder="예: 가뭄 편집부"></label>' +
+      '<label>작가<input name="author" maxlength="40" placeholder="예: 가톨릭 머뭄 편집부"></label>' +
       '<label>작품 소개<textarea name="intro" rows="4" maxlength="1000"></textarea></label>' +
       '<fieldset class="cm-dayset"><legend>연재 요일 (웹툰·웹소설)</legend>' + DAYS.map(function (d) { return '<label><input type="checkbox" name="day" value="' + d + '"> ' + d + '</label>'; }).join('') + '</fieldset>' +
       '<div class="cm-upbox"><span>표지 그림 (가로 3 : 세로 4 비율 권장)</span><div class="cm-cover-prev" data-cover-prev></div><input type="hidden" name="cover"><label class="cm-btn cm-btn-line cm-filebtn">표지 고르기<input type="file" accept="image/*" data-cover-file hidden></label><p class="cm-form-note" data-up-msg hidden></p></div>' +

diff --git a/index.html b/index.html
@@ -1,1 +1,1 @@
-<!doctype html><html lang="ko"><head><meta charset="utf-8"><link rel="icon" href="home/icon-64.png"><link rel="apple-touch-icon" href="home/icon-180.png"><meta name="viewport" content="width=device-width,initial-scale=1"><meta name="description" content="전국의 가톨릭 피정과 수도회를 한곳에서 찾습니다. 나에게 맞는 피정과 오늘의 작은 묵상을 만납니다."><title>가뭄. 가톨릭 머뭄 · 전국 피정 찾기</title><meta property="og:type" content="website"><meta property="og:site_name" content="가뭄. 가톨릭 머뭄"><meta property="og:title" content="가뭄. 가톨릭 머뭄 · 전국 피정 찾기"><meta property="og:description" content="전국의 가톨릭 피정과 수도회를 한곳에서 찾습니다. 잠시 머물고, 다시 일상으로."><meta property="og:image" content="https://coend01-web.github.io/gamum/home/og.jpg"><meta property="og:image:width" content="1200"><meta property="og:image:height" content="630"><meta name="twitter:card" content="summary_large_image"><meta property="og:url" content="https://coend01-web.github.io/gamum/"><script>const route=location.hash.slice(1).split('/')[0];const current=['','home','paths','minute','discover','themes','calendar','places','retreat','quiz-result','shelf','guide','board','post','contents','webtoon','dioceses','convents','login','search','me','write','privacy','terms','about','cedit'];location.replace((current.includes(route)?'home/index.html':'legacy.html')+location.search+location.hash);</script></head><body><p><a href="home/index.html">가뭄. 홈페이지 열기</a></p></body></html>
+<!doctype html><html lang="ko"><head><meta charset="utf-8"><link rel="icon" href="home/icon-64.png"><link rel="apple-touch-icon" href="home/icon-180.png"><meta name="viewport" content="width=device-width,initial-scale=1"><meta name="description" content="전국의 가톨릭 피정과 수도회를 한곳에서 찾습니다. 나에게 맞는 피정과 오늘의 작은 묵상을 만납니다."><title>가톨릭 머뭄 · 전국 피정 찾기</title><meta property="og:type" content="website"><meta property="og:site_name" content="가톨릭 머뭄"><meta property="og:title" content="가톨릭 머뭄 · 전국 피정 찾기"><meta property="og:description" content="전국의 가톨릭 피정과 수도회를 한곳에서 찾습니다. 잠시 머물고, 다시 일상으로."><meta property="og:image" content="https://coend01-web.github.io/gamum/home/og.jpg"><meta property="og:image:width" content="1200"><meta property="og:image:height" content="630"><meta name="twitter:card" content="summary_large_image"><meta property="og:url" content="https://coend01-web.github.io/gamum/"><script>const route=location.hash.slice(1).split('/')[0];const current=['','home','paths','minute','discover','themes','calendar','places','retreat','quiz-result','shelf','guide','board','post','contents','webtoon','dioceses','convents','login','search','me','write','privacy','terms','about','cedit'];location.replace((current.includes(route)?'home/index.html':'legacy.html')+location.search+location.hash);</script></head><body><p><a href="home/index.html">가톨릭 머뭄 홈페이지 열기</a></p></body></html>

diff --git a/home/cm-pages.js b/home/cm-pages.js
@@ -2,7 +2,7 @@
 (function () {
   var note = '<p class="cm-preview-note">화면 미리보기입니다. 아래 글과 이름은 모두 예시이며 실제 자료가 아닙니다.</p>';
   function safe(v) { return String(v == null ? '' : v).replace(/[&<>"']/g, function (c) { return {'&': '&amp;', '<': '&lt;', '>': '&gt;', '"': '&quot;', "'": '&#39;'}[c]; }); }
-  function back() { return '<a class="back-link" href="#home">← 가뭄으로 돌아가기</a>'; }
+  function back() { return '<a class="back-link" href="#home">← 처음으로 돌아가기</a>'; }
 
   var posts = [
       ['피정 후기', '첫 침묵 피정을 다녀왔어요 (예시 글)', '머뭄이', '19:00', 12, 3, 4],
@@ -183,9 +183,9 @@
     menuFade();
     var T = { home: '', paths: '피정 찾기', search: '피정 검색', discover: '나를 찾아가는 피정', themes: '주제로 찾는 피정', calendar: '날짜로 찾는 피정', places: '장소로 찾는 피정',
       retreat: '피정 안내', 'quiz-result': '나를 찾아가는 피정', shelf: '피정담기', guide: '이용 안내', minute: '1분 머뭄', board: '게시판', post: '게시판', write: '글쓰기',
-      contents: '콘텐츠', cedit: '콘텐츠 올리기', dioceses: '전국 교구', convents: '수도회 소개', login: '로그인', me: '내 정보', about: '가뭄 소개', privacy: '개인정보 처리방침', terms: '이용약관' };
+      contents: '콘텐츠', cedit: '콘텐츠 올리기', dioceses: '전국 교구', convents: '수도회 소개', login: '로그인', me: '내 정보', about: '가톨릭 머뭄 소개', privacy: '개인정보 처리방침', terms: '이용약관' };
     var t = T[page];
-    document.title = (t ? t + ' | ' : '') + '가뭄. 가톨릭 머뭄 · 전국 피정 찾기';
+    document.title = (t ? t + ' | ' : '') + '가톨릭 머뭄 · 전국 피정 찾기';
   }
   function menuFade() {
     var sc = document.querySelector('.cm-menu-scroll'), bar = document.querySelector('.cm-menubar'); if (!sc || !bar) return;

diff --git a/home/cm-preview.css b/home/cm-preview.css
@@ -435,3 +435,8 @@ button.cm-tool{border:0;background:none;cursor:pointer;padding:0}
 @media(max-width:700px){.cm-toon.cm-gap1,.cm-toon.cm-gap2{margin-left:-14px;margin-right:-14px}}
 footer,.site-footer{padding-bottom:96px!important}
 main:focus,main[tabindex]:focus,#main:focus{outline:none}
+/* 공식 이름: 가톨릭 머뭄 */
+.cm-brand .logo{font-size:38px;letter-spacing:-.02em;white-space:nowrap}
+.site-footer .logo{white-space:nowrap}
+@media(max-width:700px){.cm-brand .logo{font-size:25px!important}.cm-ko{font-size:11px}}
+@media(max-width:360px){.cm-brand .logo{font-size:22px!important}.cm-sub{display:none}}
